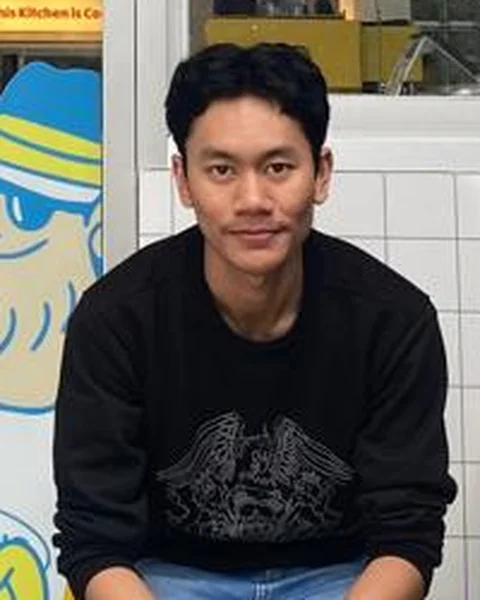
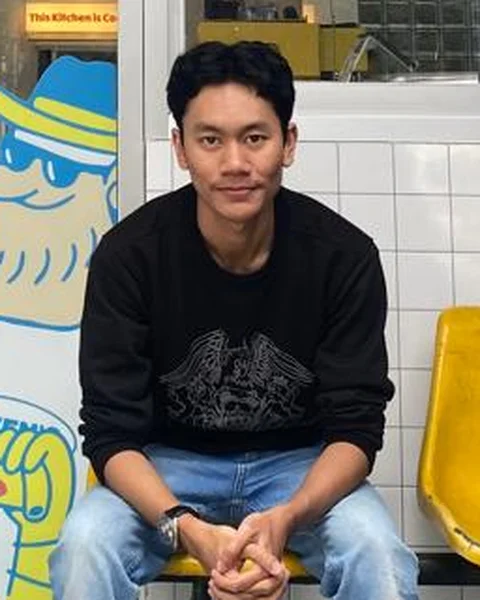
Website portofolio (Astro + Tailwind)

diff --git a/src/data/content.ts b/src/data/content.ts
@@ -7,7 +7,7 @@ export const profile = {
     "Lulusan S1 Sistem Informasi UNIKOM. Membangun sistem berbasis web dengan Laravel untuk kebutuhan organisasi nyata, serta proyek machine learning dan IoT.",
   email: "ryzaldyaldy@gmail.com",
   github: "https://github.com/tropicalforet",
-  website: "https://portfolio-aldyss.vercel.app",
+  website: "https://ryzaldy.vercel.app",
   // linkedin: "https://www.linkedin.com/in/...",
 };
 
